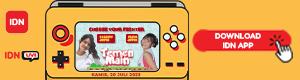
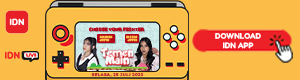
awd

Changed region(s): [[0.24, 0.4, 0.54, 0.975]]

diff --git a/idntimes/masthead/internal/idnlive/temen-main/src/index.html b/idntimes/masthead/internal/idnlive/temen-main/src/index.html
@@ -8,7 +8,7 @@
 <script src="https://code.jquery.com/jquery-3.7.0.js" integrity="sha256-JlqSTELeR4TLqP0OG9dxM7yDPqX1ox/HfgiSLBj8+kM=" crossorigin="anonymous"></script>
 <script>
   var FloatingAds = function() {
-    var $floatingBanner = $('<div id="floatingbanner" style="position: fixed; background-color: black; width: 300px; height: 400px; left: -400px; bottom: 15px; z-index: 999; -webkit-transition: all 1s linear 0s; -moz-transition: all 1s linear 0s;-ms-transition: all 1s linear 0s;-o-transition: all 1s linear 0s;transition: all 1s linear 0s; box-shadow: 1px 1px 10px #ccc; border-radius: 10px;"><a href="https://tinyurl.com/jkt48lp" target="_blank"><img src="src/300x80.jpeg" style="max-width: 300px; height: 80px; position: absolute; bottom: 0; left: 0; border-bottom-left-radius: 10px; border-bottom-right-radius: 10px;"></a><iframe width="300" height="320" src="https://tinyurl.com/jkt48embed" frameborder="0" scrolling="no" allowfullscreen="true" style="position: absolute; width: 300px; height: 320px; left: 0px; top: 0px; z-index: 1; border-top-right-radius: 10px; border-top-left-radius: 10px;"></iframe></div>');
+    var $floatingBanner = $('<div id="floatingbanner" style="position: fixed; background-color: black; width: 300px; height: 400px; left: -400px; bottom: 15px; z-index: 999; -webkit-transition: all 1s linear 0s; -moz-transition: all 1s linear 0s;-ms-transition: all 1s linear 0s;-o-transition: all 1s linear 0s;transition: all 1s linear 0s; box-shadow: 1px 1px 10px #ccc; border-radius: 10px;"><a href="https://tinyurl.com/jkt48lp" target="_blank"><img src="src/300x80.jpeg" style="max-width: 300px; height: 80px; position: absolute; bottom: 0; left: 0; border-bottom-left-radius: 10px; border-bottom-right-radius: 10px;"></a><iframe width="300" height="320" src="https://www.idn.app/embed-player/temen-main-jkt48-230724173828" frameborder="0" scrolling="no" allowfullscreen="true" style="position: absolute; width: 300px; height: 320px; left: 0px; top: 0px; z-index: 1; border-top-right-radius: 10px; border-top-left-radius: 10px;"></iframe></div>');
 
     $(window.parent.document.getElementsByTagName("body")).append($floatingBanner);
 

diff --git a/idntimes/masthead/internal/idnlive/temen-main/index-m.html b/idntimes/masthead/internal/idnlive/temen-main/index-m.html
@@ -976,7 +976,7 @@ h.end=i=function(){s.className=s.className.replace(RegExp(' ?'+y),'')};
 <center>
     <div style="height: 250px; width: 300px; position: relative; display: block">
         <a href="https://tinyurl.com/jkt48lp" target="_blank" style="position: absolute; width: 300px; height: 250px;"></a>
-        <iframe width="300" height="173" src="https://tinyurl.com/jkt48embed" frameborder="0" scrolling="no" style="position: absolute; width: 300px; height: 173px; left: 0px; top: 0px; z-index: 1;"></iframe>
+        <iframe width="300" height="173" src="https://www.idn.app/embed-player/temen-main-jkt48-230724173828" frameborder="0" scrolling="no" style="position: absolute; width: 300px; height: 173px; left: 0px; top: 0px; z-index: 1;"></iframe>
         <img src="src/300x250.png" alt="leaderboard" style="max-width: 300px; max-height: 250px;">
     </div>
 </center>
